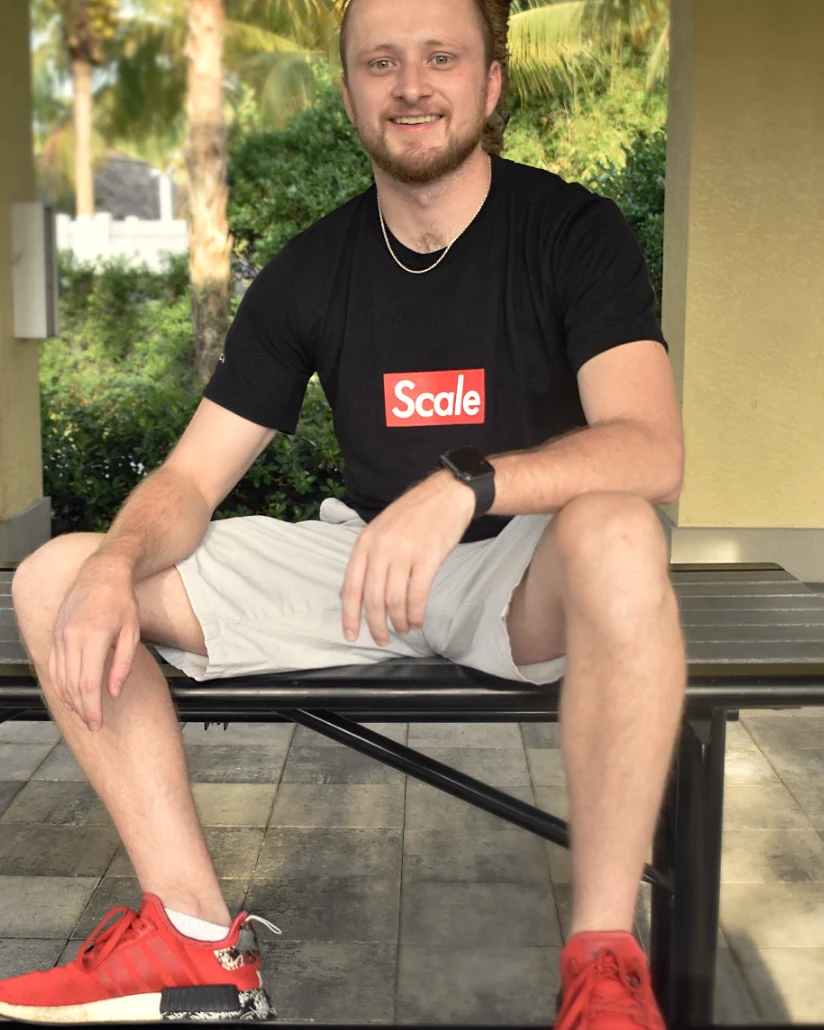
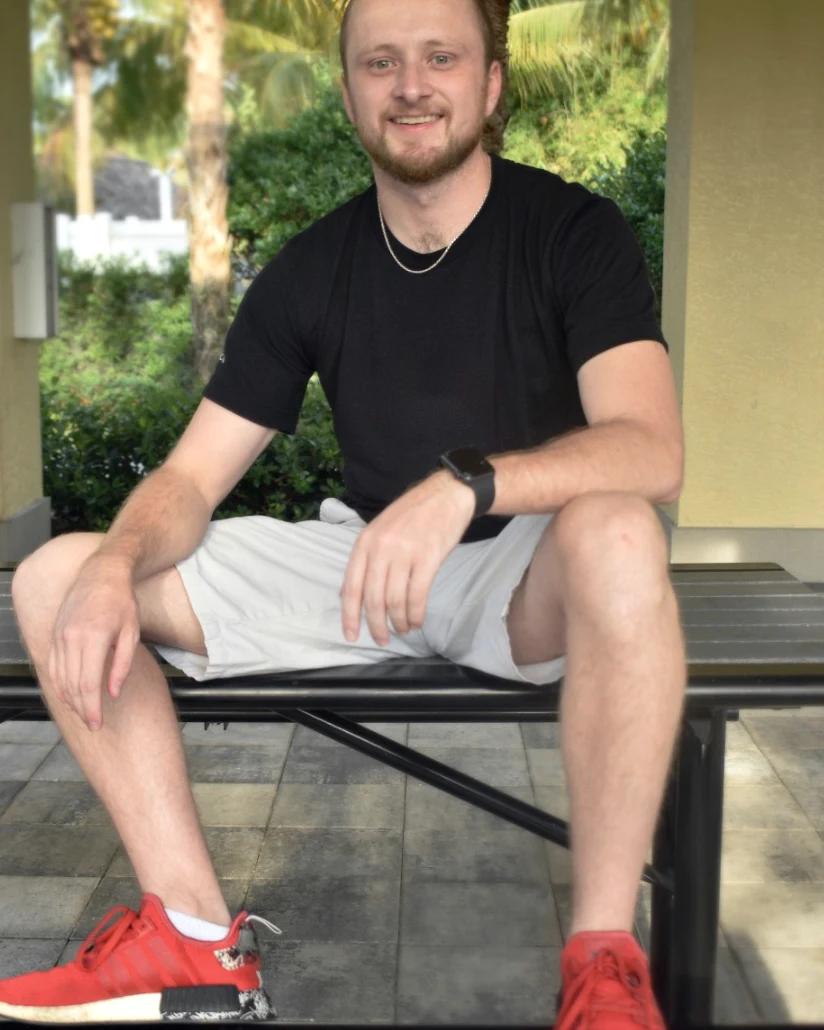
Hero portrait: head and chest only, plain black tee
- Remove the 'Scale' logo from Evan's shirt (painted out from the
  surrounding fabric) in the hero cut-out and in the portrait used in
  the schema data.
- Crop the hero to head and chest, lower it under the header so his
  full face shows, and fade the top edge into the dark to hide the
  original photo's crop line. Same crop in the 'Nice to meet you'
  scene and the share image.

Claude-Session: https://claude.ai/code/session_01SAnofQPM4pLS9rjWbCmDxt

Changed region(s): [[0.4551, 0.3417, 0.6068, 0.435]]

diff --git a/src/style.css b/src/style.css
@@ -144,9 +144,9 @@ h2 { font-size: clamp(36px, 4.4vw, 66px); line-height: 1.02; letter-spacing: -0.
 .nameplate { position: relative; height: 100vh; height: 100svh; min-height: 620px; overflow: hidden; padding: 0 var(--gutter); }
 .nameplate > * { max-width: none; }
 .nameplate::before { content: ''; position: absolute; z-index: 1; inset: 0 0 auto 0; height: 170px; pointer-events: none; background: linear-gradient(180deg, rgba(15, 13, 11, 0.85), rgba(15, 13, 11, 0)); }
-.np-photo { position: absolute; z-index: 0; bottom: 0; left: 54%; transform: translateX(-50%); height: 100%; aspect-ratio: 880 / 700; max-width: none; pointer-events: none; }
+.np-photo { position: absolute; z-index: 0; top: 88px; left: 57%; transform: translateX(-50%); height: 72%; -webkit-mask-image: linear-gradient(180deg, transparent 0%, #000 16%); mask-image: linear-gradient(180deg, transparent 0%, #000 16%); aspect-ratio: 590 / 470; max-width: none; pointer-events: none; }
 .np-photo::before { content: ''; position: absolute; inset: 8% 10% 0; background: radial-gradient(50% 55% at 50% 38%, rgba(255, 140, 60, 0.22), transparent 70%); filter: blur(20px); }
-.np-photo img { position: relative; width: 100%; height: 100%; object-fit: contain; object-position: 50% 100%; transform-origin: 50% 30%; }
+.np-photo img { position: relative; width: 100%; height: 100%; object-fit: contain; object-position: 50% 0; transform-origin: 50% 30%; }
 .np-meta { position: absolute; z-index: 2; top: 104px; left: var(--gutter); right: var(--gutter); list-style: none; display: grid; grid-template-columns: 1fr 1fr 1fr auto; gap: 24px; font-size: 13px; line-height: 1.45; color: var(--mute); }
 .np-meta a { color: var(--ink-2); border-bottom: 1px solid var(--line-2); }
 .np-meta a:hover { color: var(--accent-ink); }
@@ -174,7 +174,7 @@ h2 { font-size: clamp(36px, 4.4vw, 66px); line-height: 1.02; letter-spacing: -0.
 /* ---------- "Nice to meet you" ---------- */
 .meet { position: relative; height: 100vh; height: 100svh; min-height: 600px; overflow: hidden; display: grid; place-items: center; padding: 0 var(--gutter); }
 .meet > * { max-width: none; }
-.meet-photo { width: min(78vw, 980px); aspect-ratio: 880 / 700; -webkit-mask-image: radial-gradient(60% 62% at 50% 42%, #000 55%, transparent 100%); mask-image: radial-gradient(60% 62% at 50% 42%, #000 55%, transparent 100%); }
+.meet-photo { width: min(70vw, 900px); aspect-ratio: 590 / 470; -webkit-mask-image: radial-gradient(60% 62% at 50% 42%, #000 55%, transparent 100%); mask-image: radial-gradient(60% 62% at 50% 42%, #000 55%, transparent 100%); }
 .meet-photo img { width: 100%; height: 100%; object-fit: contain; transform-origin: 50% 35%; }
 .meet-notes { position: absolute; z-index: 2; top: 104px; left: var(--gutter); right: var(--gutter); list-style: none; display: grid; grid-template-columns: repeat(3, 1fr); gap: 24px; font-size: 13px; line-height: 1.45; color: var(--ink-2); }
 .meet-notes li:last-child { text-align: right; }
@@ -627,8 +627,8 @@ body.sub { background: radial-gradient(1200px 600px at 75% -10%, rgba(217, 98, 4
 
   /* nameplate on phones: Evan large, name in two lines over the fade */
   .nameplate { min-height: 560px; }
-  .np-photo { left: 50%; bottom: 24svh; height: 76svh; }
-  .np-photo img { object-position: 50% 100%; }
+  .np-photo { left: 50%; top: 64px; height: 58svh; }
+  .np-photo img { object-position: 50% 0; }
   .np-meta { top: 84px; grid-template-columns: 1fr 1fr; font-size: 12px; }
   .np-meta li:nth-child(n+3) { display: none; }
   .np-meta li:nth-child(2) { text-align: right; }
@@ -641,7 +641,7 @@ body.sub { background: radial-gradient(1200px 600px at 75% -10%, rgba(217, 98, 4
   .intro-title { font-size: clamp(46px, 13vw, 64px); margin-bottom: 26px; }
   .intro-row .btns { width: 100%; }
   .intro-row .btns .btn { flex: 1 1 auto; justify-content: center; }
-  .meet-photo { width: 128vw; }
+  .meet-photo { width: 118vw; }
   .meet-notes { top: 84px; font-size: 11.5px; gap: 12px; }
   .meet-title { font-size: 17vw; bottom: 10svh; }
 }

diff --git a/src/render.js b/src/render.js
@@ -108,7 +108,7 @@ function caseBlock(c, i) {
 export function renderHome() {
   return `
 <section class="nameplate" id="top">
-  <div class="np-photo"><img src="/img/evan-hero.webp" alt="Evan “Jet” Lee, marketing growth partner and founder of JetSpeedSocial, in Naples, Florida" width="880" height="700" fetchpriority="high" /></div>
+  <div class="np-photo"><img src="/img/evan-hero.webp" alt="Evan “Jet” Lee, marketing growth partner and founder of JetSpeedSocial, in Naples, Florida" width="590" height="470" fetchpriority="high" /></div>
   <ul class="np-meta">
     <li>Marketing growth partner<br />and fractional CMO</li>
     <li>Based in<br />${site.city}</li>
@@ -218,7 +218,7 @@ export function renderHome() {
     <li>Currently running<br />${site.company}</li>
     <li>Open to growth<br />partnerships</li>
   </ul>
-  <div class="meet-photo"><img src="/img/evan-hero.webp" alt="" loading="lazy" width="880" height="700" /></div>
+  <div class="meet-photo"><img src="/img/evan-hero.webp" alt="" loading="lazy" width="590" height="470" /></div>
   <h2 class="meet-title"><span class="ml"><span>Nice to</span></span><span class="ml"><span>meet you<i class="dot">.</i></span></span></h2>
 </section>
 
